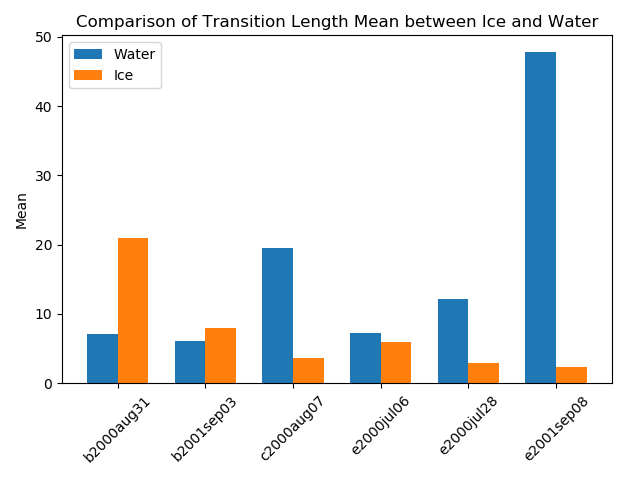
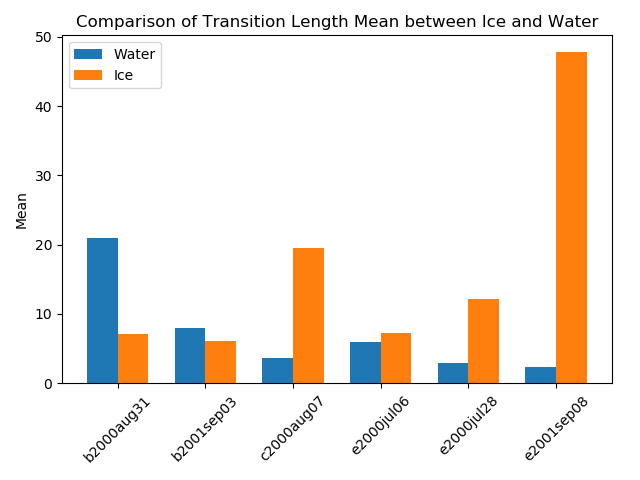
bug fixed
fixed bug that saved ice lengths to water transition lists and vice versa

diff --git a/quantify_het/quantify_het_transition_length.py b/quantify_het/quantify_het_transition_length.py
@@ -7,8 +7,6 @@ using length between transitions
 import numpy as np
 import matplotlib.pyplot as plt
 import os
-import pandas as pd
-from scipy import stats
 import json
 
 # reset matplotlib to defalt settings
@@ -26,11 +24,6 @@ label = cnst.label
 root = cnst.root
 reso = cnst.reso
 conv = cnst.conv
-iceT = cnst.iceT
-waterT = cnst.waterT
-iceR = cnst.waterR
-waterR =cnst.waterR
-
 
 # clear all plots
 plt.close('all')
@@ -48,10 +41,6 @@ s_cutoff = -3
 ############################################################
 ######## all options should be able to be set above ########
 ############################################################
-
-
-# set strings used to save variables from parameters set above
-# set filename and titlestring for saving
 
 # iterate over files
 for filename in sorted(os.listdir(lp)):

diff --git a/quantify_het/analyze_trans_scale.py b/quantify_het/analyze_trans_scale.py
@@ -71,8 +71,8 @@ for pattern in labels:
                            + transtats_y[str(ice)]  + transtats_y[str(water)]
     x_lengths = transtats_x[str(ice)] + transtats_x[str(water)]
     y_lengths = transtats_y[str(ice)] + transtats_y[str(water)]
-    water_lengths = transtats_x[str(ice)] + transtats_y[str(ice)]
-    ice_lengths = transtats_x[str(water)] + transtats_y[str(water)]
+    water_lengths = transtats_x[str(water)] + transtats_y[str(water)]
+    ice_lengths = transtats_x[str(ice)] + transtats_y[str(ice)]
     
     # create list to loop through
     trans_length_list = [(all_lengths, '_all'), 
@@ -336,7 +336,7 @@ plt.savefig(os.path.join(sp,map_comps+'_kurtosis_comp_icewater.png'))
 
 
 
-
+plt.close('all')
 
 ### PDF of transition lengths ###
 #### need to rework this section ####
